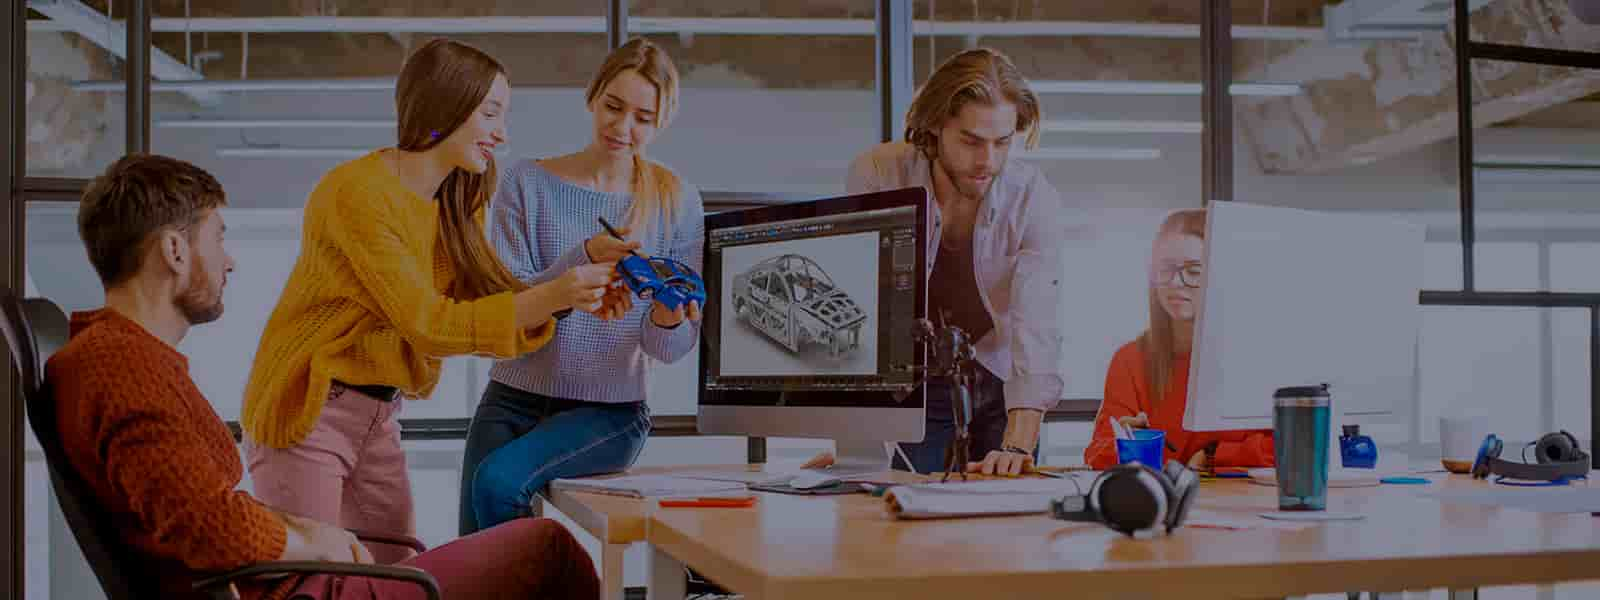
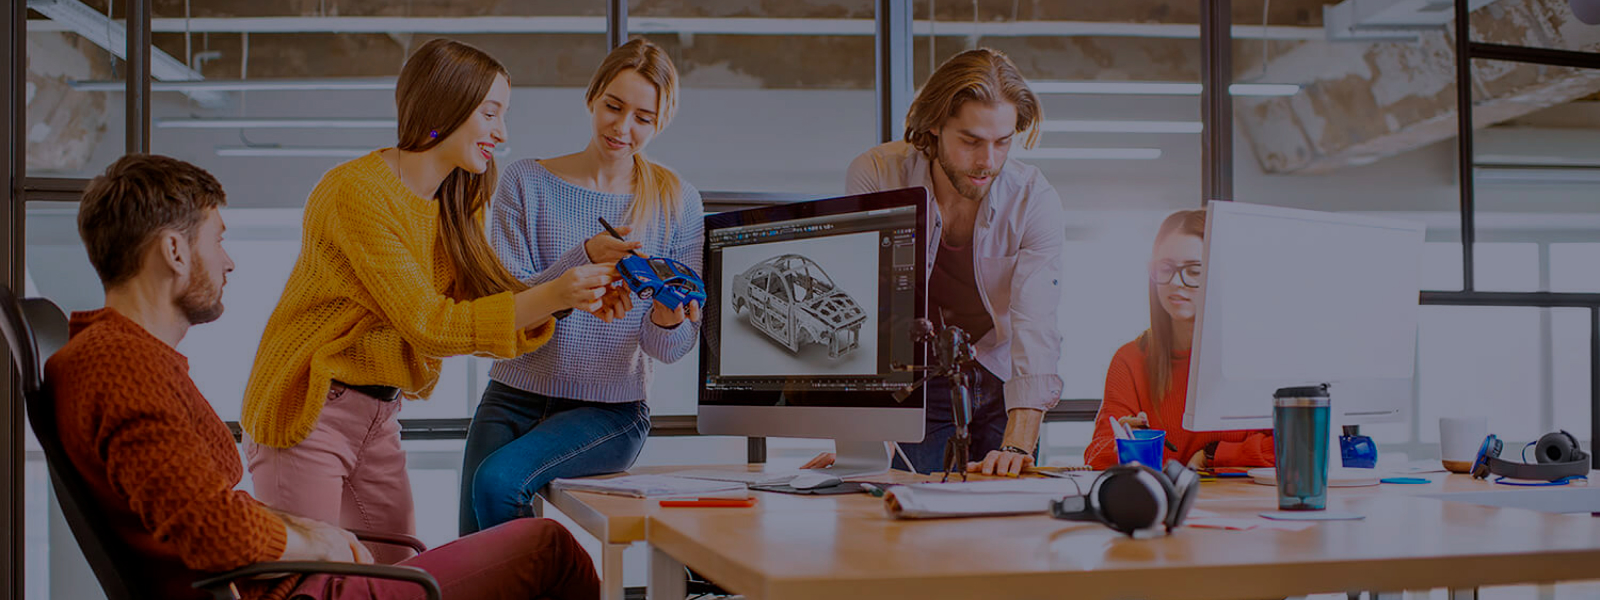
cos wiecej

diff --git a/css/main.min.css b/css/main.min.css
@@ -1,1 +1,1 @@
-.backdrop{position:fixed;left:0px;top:0px;z-index:3;width:100%;height:100%;background-color:rgba(0,0,0,.2);transition:transform 500ms linear,visibility 500ms linear,opacity 500ms linear}.is-hidden{transform:scaleY(0);visibility:hidden;opacity:0;pointer-events:none}button:hover,button:active,button:focus{color:var(--second-color, white);background-color:#2196f3}.buttons{display:flex;justify-content:space-around}.button__list{list-style-type:none;display:flex;gap:8px;padding-top:94px}.button--portfolio{padding:6px 22px;border-radius:4px;line-height:1.625;color:var(--brand-color, black);border:#f5f4fa;font-weight:500;font-size:16px;transition:color 250ms cubic-bezier(0.4, 0, 0.2, 1)}.button--portfolio:hover{box-shadow:0px 3px 1px rgba(0,0,0,.1),0px 1px 2px rgba(0,0,0,.08),0px 2px 2px rgba(0,0,0,.12);cursor:pointer}.button--text{font-weight:500;font-size:16px}.header{display:flex;margin-left:15px;margin-right:15px}.header__border{border:1px solid #eee;margin:0}.page-header{display:flex;justify-content:space-between;align-items:center}.logo{text-decoration:none;font-family:"Raleway",sans-serif;line-height:1.2;color:var(--brand-color, black);font-weight:700;font-size:26px;padding-top:24px;padding-bottom:25px}.logo--highlight{color:#2196f3}.logo--second-color{color:var(--second-color, white)}.nav{display:inline-flex;gap:46px;margin-left:93px;margin-right:345px}.nav__list{list-style-type:none;display:flex;gap:46px;padding-top:32px}.nav__item{font-family:"Roboto";font-style:normal;font-weight:500;font-size:14px;color:#212121;text-decoration:none;transition:color 250ms cubic-bezier(0.4, 0, 0.2, 1)}.nav__item--active::after{content:"";display:block;border:2px solid #2196f3;margin-top:28px;border-radius:2px}.nav__item:hover,.nav__item:focus{color:#2196f3;text-decoration:none}.nav__item:hover,.nav__item:focus,.nav__item:active{color:#2196f3}.contact{display:inline-flex;flex-wrap:nowrap;align-items:center}.contact__list{list-style-type:none;display:flex;padding-left:0px;gap:30px}.contact__icon{display:flex;justify-content:center;align-items:center;padding-right:10px;fill:#757575}.contact__icon:hover{fill:#2196f3}.contact__item{text-decoration:none;color:#757575;display:flex;line-height:1.142em;letter-spacing:.02em;font-weight:500;font-size:14px;transition:color 250ms cubic-bezier(0.4, 0, 0.2, 1)}.contact__item:hover,.contact__item:active,.contact__item:focus{color:#2196f3}.contact__item:hover .contact__item-number{padding-left:50px}.contact__item:hover .contact__icon{fill:#2196f3}.modal{position:absolute;top:50%;left:50%;transform:translate(-50%, -50%);width:528px;height:581px;background-color:#fff;box-shadow:0px 1px 3px rgba(0,0,0,.12),0px 1px 1px rgba(0,0,0,.14),0px 2px 1px rgba(0,0,0,.2);border-radius:4px}.modal--close{position:absolute;top:8px;right:8px;width:30px;height:30px;background-color:#fff;border:1px solid rgba(0,0,0,.1);border-radius:100%;cursor:pointer;transition:fill 250ms cubic-bezier(0.4, 0, 0.2, 1) 0ms}.modal__window{position:absolute;display:flex;flex-direction:column;margin:0;padding:0;left:40px;top:40px}#modal--form{font-weight:700;font-size:20px;line-height:1.15;text-align:center;letter-spacing:.03em;color:#212121;margin-bottom:12px;padding-left:40px;padding-right:40px}.modal__label{display:flex;flex-direction:column;margin-bottom:10px;gap:4px}.modal__label>textarea{width:448px;height:120px;border:1px solid rgba(33,33,33,.2);border-radius:4px;margin-top:4px;padding-left:16px;padding-top:12px;outline-color:#2196f3;transition:outline-color 250ms cubic-bezier(0.4, 0, 0.2, 1) 0ms}.modal__title{font-size:12px;line-height:1.2;letter-spacing:.01em;color:#757575}.modal__button--submit{width:200px;height:50px;background:#2196f3;box-shadow:0px 4px 4px rgba(0,0,0,.15);border-radius:4px;border:none;margin-left:124px;margin-top:30px;font-weight:700;font-size:16px;line-height:1.9;letter-spacing:.06em;color:#fff;margin-bottom:40px;cursor:pointer}.modal__input{position:relative;transition:outline-color 250ms cubic-bezier(0.4, 0, 0.2, 1) 0ms}.modal__input-icon{top:14px;left:15px;transition:fill 250ms cubic-bezier(0.4, 0, 0.2, 1) 0ms}.modal__input>input{width:448px;height:40px;border:1px solid rgba(33,33,33,.2);border-radius:4px;padding-left:40px}.modal__input>svg{position:absolute}.modal__input input:focus{outline-color:#2196f3}.modal__input input:focus+svg{fill:#2196f3}.textarea-resize{resize:none}.checkbox{display:block;position:relative;cursor:pointer}.checkbox input{display:none;opacity:0;cursor:pointer;height:0;width:0}.checkbox--regulations{color:#2196f3;text-decoration:underline;cursor:pointer}.checkbox__input:checked+.checkmark{border:none}.checkbox__input:checked+.checkmark svg{visibility:visible}.checkbox__text{font-family:"Roboto";font-size:14px;line-height:1.71;color:#757575;padding-left:39px}.checkmark{height:15px;width:16px;background-color:var(--white-color);border:2px solid #000;position:absolute;top:3px;left:15px;cursor:pointer;border-radius:2px}.checkmark__icon{height:15px;width:16px;visibility:hidden;transition:outline-color 250ms cubic-bezier(0.4, 0, 0.2, 1) 0ms}.check-icon{height:15px;width:16px;visibility:hidden}.footer{background-color:#2f303a}.page-footer{padding-top:60px}.page-footer__description{display:flex;gap:70px}.page-footer__description--section{font-size:14px;font-weight:700;color:#fff}.address{color:var(--second-color, white);line-height:1.71;font-style:normal;font-size:14px}.address--color{font-style:normal;font-size:14px;font-family:"Roboto";font-weight:400;padding-top:20px}.footer-contact__list{list-style-type:none;line-height:1.71}.footer-contact__item--mail{padding-top:9px}.footer-contact__item--number{padding-top:9px;padding-bottom:60px}.footer-contact__link{text-decoration:none;color:#757575;font-weight:500;font-size:14px;transition:color 250ms cubic-bezier(0.4, 0, 0.2, 1)}.footer-contact__link:hover,.footer-contact__link:active,.footer-contact__link:focus{color:#2196f3}.social__link{background-color:rgba(255,255,255,.1);width:44px;height:44px;border-radius:50%;align-items:center;justify-content:center;display:flex;margin-top:20px;transition:fill 250ms cubic-bezier(0.4, 0, 0.2, 1) 0ms,background-color 250ms cubic-bezier(0.4, 0, 0.2, 1) 0ms}.social__link:hover{background-color:#2196f3}.social__link:hover svg{fill:#fff}.newsletter__text{font-size:14px;font-weight:700;color:#fff;margin-bottom:20px}.newsletter__form{display:flex;align-items:flex-end;gap:12px;flex-direction:row}.newsletter__label{display:flex;flex-direction:column}.newsletter__input{width:358px;height:50px;border:1px solid rgba(255,255,255,.3);filter:drop-shadow(0px 4px 4px rgba(0, 0, 0, 0.15));border-radius:4px;background-color:inherit;font-family:"Roboto";font-size:16px;line-height:1.25px;letter-spacing:.03em;color:#fff;padding-left:16px;outline-color:#2196f3;transition:outline-color 250ms cubic-bezier(0.4, 0, 0.2, 1) 0ms}.newsletter__submit{width:200px;height:50px;background-color:#2196f3;color:#fff;border-radius:4px;font-weight:700;font-size:16px;line-height:1.9;display:flex;align-items:center;gap:24px;text-align:center;letter-spacing:.06em;border:none;justify-content:center;transition:box-shadow 250ms cubic-bezier(0.4, 0, 0.2, 1) 0ms}.newsletter__submit:hover{cursor:pointer}body{font-family:"Roboto","Raleway",sans-serif;color:var(--brand-color, black);background:var(--second-color, white);margin:auto}*{box-sizing:border-box;margin:0;padding:0}.container{width:100%;margin:0 auto}@media screen and (min-width: 480px){.container{max-width:480px;padding:0 15px}}@media screen and (min-width: 768px){.container{max-width:768px;padding:0 15px}}@media screen and (min-width: 1200px){.container{max-width:1200px}}@media(min-device-pixel-ratio: 2),(-webkit-min-device-pixel-ratio: 2),(min-resolution: 192dpi),(min-resolution: 2dppx){.main__title{background-image:url(../images/bg-img-480px@2x.jpg)}}@media screen and (min-width: 320px)and (max-width: 767px){.main__title{background-color:#2f303a;background-image:linear-gradient(to bottom, rgba(47, 48, 58, 0.4), rgba(47, 48, 58, 0.4)),url(../images/bg-img-480px.jpg);background-size:480px 400px;background-position:center;background-repeat:no-repeat}}.content{text-align:center}.content__text{font-style:normal;font-weight:900;font-size:26px;line-height:1.61;letter-spacing:.06em;color:#fff;padding-top:118px;padding-bottom:30px}.content__button{background-color:#2196f3;cursor:pointer;line-height:1.875;color:#212121;border:none #f5f4fa;font-weight:700;font-size:16px;font-family:"Roboto";text-align:center;border-radius:4px;padding:10px 41px 10px 42px;margin-bottom:118px}.content__button--style{color:#fff}.content__button--style:hover{cursor:pointer}.main__cards{padding-top:94px}.marks{list-style-type:none;display:flex;gap:30px;padding-left:15px;padding-right:15px}.marks__image{display:flex;background-color:#f5f4fa;margin-bottom:30px;padding-top:25px;padding-bottom:25px;padding-left:102.34px;padding-right:102.34px;border-radius:4px}.marks__title{line-height:1.36;font-weight:700;color:var(--brand-color, black);font-size:14px}.marks__text{line-height:1.71;padding-top:10px;color:#757575;font-size:14px}.gallery__title{font-size:36px;font-weight:700;font-family:"Roboto";text-align:center;padding-bottom:50px;padding-top:94px;line-height:1.17}.gallery__list{list-style-type:none;display:flex;justify-content:center;gap:30px}.gallery__thumb{position:relative;margin:0}.gallery__label{position:absolute;display:flex;width:370px;height:70px;top:224px;align-items:center;justify-content:center;font-weight:700;font-size:14px;line-height:1.14;text-transform:uppercase;color:#fff;background:rgba(47,48,58,.8)}.team{list-style-type:none;display:flex;justify-content:center;padding-top:50px;padding-bottom:94px;padding-left:0;justify-content:space-between}.team__background{background-color:#f5f4fa;margin-top:94px}.team__title{font-size:36px;font-weight:700;text-align:center;font-family:"Roboto";padding-top:94px;line-height:1.17}.team__figure{margin:0;padding:0;background-color:#fff;box-shadow:0px 1px 3px rgba(0,0,0,.12),0px 1px 1px rgba(0,0,0,.14),0px 2px 1px rgba(0,0,0,.2);border-radius:0px 0px 4px 4px}.team__figcaption{padding-bottom:16px;line-height:1.17}.team__name{font-size:16px;font-weight:500;padding-top:30px;text-align:center}.team__subtitle{font-size:16px;text-align:center;padding-top:10px;color:#757575}.social__list{display:flex;gap:10px;justify-content:center;align-items:center;list-style-type:none}.social__item{padding-bottom:30px}.social__content{display:flex;width:44px;height:44px;border-radius:50%;align-items:center;justify-content:center;transition:fill 250ms cubic-bezier(0.4, 0, 0.2, 1) 0ms,background-color 250ms cubic-bezier(0.4, 0, 0.2, 1) 0ms;background-color:rgba(255,255,255,.1)}.social__content:hover{background-color:#2196f3;cursor:pointer}.social__content:hover svg{fill:#fff}.social__icon--team{fill:#afb1b8;height:20px;width:20px}.social__icon--team:hover{fill:#fff}.social__icon{fill:#fff;height:20px;width:20px}.clients__title{font-size:36px;font-weight:700;text-align:center;font-family:"Roboto";padding-top:94px;line-height:1.17;padding-bottom:50px}.clients__list{display:flex;gap:30px;justify-content:center;align-items:center;list-style-type:none}.clients__box{height:92px;width:170px;border:1px solid #afb1b8;border-radius:4px;display:flex;align-items:center;justify-content:center;margin-bottom:94px;transition:fill 250ms cubic-bezier(0.4, 0, 0.2, 1) 0ms,border 250ms cubic-bezier(0.4, 0, 0.2, 1) 0ms}.clients__box:hover svg{fill:#2196f3}.clients__box:hover{border:1px solid #2196f3}.clients__icons{fill:#afb1b8;width:106px;height:60px;transition:fill 250ms cubic-bezier(0.4, 0, 0.2, 1) 0ms}.grid__list{list-style-type:none;display:flex;margin-top:84px;flex-wrap:wrap;padding-left:0;margin-bottom:94px;justify-content:space-around;row-gap:30px}.grid__item{background:#fff}.grid__item:hover .text__box{transform:translateX(0);background-color:var(--first-color)}.grid__overlay{position:relative;overflow:hidden;margin:0}.grid__overlay:hover{cursor:pointer;box-shadow:1px 4px 6px rgba(0,0,0,.16),0px 4px 4px rgba(0,0,0,.06),0px 1px 1px rgba(0,0,0,.12)}.grid__overlay--second{position:relative;overflow:hidden}.grid__image{display:block}.text__box{position:absolute;bottom:0;transform:translatey(100%);transition:ease-in 250ms}.text__box--description{background-color:#2196f3;font-family:"Roboto";font-style:normal;font-weight:400;font-size:18px;line-height:1.555;letter-spacing:.03em;color:#fff;padding:49px 45px 49px 24px;margin:0%}.grid__figcaption{padding:20px 24px;border-bottom:1px solid #eee;border-left:1px solid #eee;border-right:1px solid #eee}.grid__name{padding-bottom:4px;font-weight:700;font-size:18px;line-height:2}.grid__subtitle{color:#757575;line-height:1.875;font-size:16px}/*# sourceMappingURL=main.min.css.map */
+.backdrop{position:fixed;left:0px;top:0px;z-index:3;width:100%;height:100%;background-color:rgba(0,0,0,.2);transition:transform 500ms linear,visibility 500ms linear,opacity 500ms linear}.is-hidden{transform:scaleY(0);visibility:hidden;opacity:0;pointer-events:none}button:hover,button:active,button:focus{color:var(--second-color, white);background-color:#2196f3}.buttons{display:flex;justify-content:space-around}.button__list{list-style-type:none;display:flex;gap:8px;padding-top:94px}.button--portfolio{padding:6px 22px;border-radius:4px;line-height:1.625;color:var(--brand-color, black);border:#f5f4fa;font-weight:500;font-size:16px;transition:color 250ms cubic-bezier(0.4, 0, 0.2, 1)}.button--portfolio:hover{box-shadow:0px 3px 1px rgba(0,0,0,.1),0px 1px 2px rgba(0,0,0,.08),0px 2px 2px rgba(0,0,0,.12);cursor:pointer}.button--text{font-weight:500;font-size:16px}.header{display:flex;margin-left:15px;margin-right:15px}.header__border{border:1px solid #eee;margin:0}.page-header{display:flex;justify-content:space-between;align-items:center}.logo{text-decoration:none;font-family:"Raleway",sans-serif;line-height:1.2;color:var(--brand-color, black);font-weight:700;font-size:26px;padding-top:24px;padding-bottom:25px}.logo--highlight{color:#2196f3}.logo--second-color{color:var(--second-color, white)}.nav{display:inline-flex;gap:46px;margin-left:93px;margin-right:345px}.nav__list{list-style-type:none;display:flex;gap:46px;padding-top:32px}.nav__item{font-family:"Roboto";font-style:normal;font-weight:500;font-size:14px;color:#212121;text-decoration:none;transition:color 250ms cubic-bezier(0.4, 0, 0.2, 1)}.nav__item--active::after{content:"";display:block;border:2px solid #2196f3;margin-top:28px;border-radius:2px}.nav__item:hover,.nav__item:focus{color:#2196f3;text-decoration:none}.nav__item:hover,.nav__item:focus,.nav__item:active{color:#2196f3}.contact{display:inline-flex;flex-wrap:nowrap;align-items:center}.contact__list{list-style-type:none;display:flex;padding-left:0px;gap:30px}.contact__icon{display:flex;justify-content:center;align-items:center;padding-right:10px;fill:#757575}.contact__icon:hover{fill:#2196f3}.contact__item{text-decoration:none;color:#757575;display:flex;line-height:1.142em;letter-spacing:.02em;font-weight:500;font-size:14px;transition:color 250ms cubic-bezier(0.4, 0, 0.2, 1)}.contact__item:hover,.contact__item:active,.contact__item:focus{color:#2196f3}.contact__item:hover .contact__item-number{padding-left:50px}.contact__item:hover .contact__icon{fill:#2196f3}.modal{position:absolute;top:50%;left:50%;transform:translate(-50%, -50%);width:528px;height:581px;background-color:#fff;box-shadow:0px 1px 3px rgba(0,0,0,.12),0px 1px 1px rgba(0,0,0,.14),0px 2px 1px rgba(0,0,0,.2);border-radius:4px}.modal--close{position:absolute;top:8px;right:8px;width:30px;height:30px;background-color:#fff;border:1px solid rgba(0,0,0,.1);border-radius:100%;cursor:pointer;transition:fill 250ms cubic-bezier(0.4, 0, 0.2, 1) 0ms}.modal__window{position:absolute;display:flex;flex-direction:column;margin:0;padding:0;left:40px;top:40px}#modal--form{font-weight:700;font-size:20px;line-height:1.15;text-align:center;letter-spacing:.03em;color:#212121;margin-bottom:12px;padding-left:40px;padding-right:40px}.modal__label{display:flex;flex-direction:column;margin-bottom:10px;gap:4px}.modal__label>textarea{width:448px;height:120px;border:1px solid rgba(33,33,33,.2);border-radius:4px;margin-top:4px;padding-left:16px;padding-top:12px;outline-color:#2196f3;transition:outline-color 250ms cubic-bezier(0.4, 0, 0.2, 1) 0ms}.modal__title{font-size:12px;line-height:1.2;letter-spacing:.01em;color:#757575}.modal__button--submit{width:200px;height:50px;background:#2196f3;box-shadow:0px 4px 4px rgba(0,0,0,.15);border-radius:4px;border:none;margin-left:124px;margin-top:30px;font-weight:700;font-size:16px;line-height:1.9;letter-spacing:.06em;color:#fff;margin-bottom:40px;cursor:pointer}.modal__input{position:relative;transition:outline-color 250ms cubic-bezier(0.4, 0, 0.2, 1) 0ms}.modal__input-icon{top:14px;left:15px;transition:fill 250ms cubic-bezier(0.4, 0, 0.2, 1) 0ms}.modal__input>input{width:448px;height:40px;border:1px solid rgba(33,33,33,.2);border-radius:4px;padding-left:40px}.modal__input>svg{position:absolute}.modal__input input:focus{outline-color:#2196f3}.modal__input input:focus+svg{fill:#2196f3}.textarea-resize{resize:none}.checkbox{display:block;position:relative;cursor:pointer}.checkbox input{display:none;opacity:0;cursor:pointer;height:0;width:0}.checkbox--regulations{color:#2196f3;text-decoration:underline;cursor:pointer}.checkbox__input:checked+.checkmark{border:none}.checkbox__input:checked+.checkmark svg{visibility:visible}.checkbox__text{font-family:"Roboto";font-size:14px;line-height:1.71;color:#757575;padding-left:39px}.checkmark{height:15px;width:16px;background-color:var(--white-color);border:2px solid #000;position:absolute;top:3px;left:15px;cursor:pointer;border-radius:2px}.checkmark__icon{height:15px;width:16px;visibility:hidden;transition:outline-color 250ms cubic-bezier(0.4, 0, 0.2, 1) 0ms}.check-icon{height:15px;width:16px;visibility:hidden}.footer{background-color:#2f303a}.page-footer{padding-top:60px}.page-footer__description{display:flex;gap:70px}.page-footer__description--section{font-size:14px;font-weight:700;color:#fff}.address{color:var(--second-color, white);line-height:1.71;font-style:normal;font-size:14px}.address--color{font-style:normal;font-size:14px;font-family:"Roboto";font-weight:400;padding-top:20px}.footer-contact__list{list-style-type:none;line-height:1.71}.footer-contact__item--mail{padding-top:9px}.footer-contact__item--number{padding-top:9px;padding-bottom:60px}.footer-contact__link{text-decoration:none;color:#757575;font-weight:500;font-size:14px;transition:color 250ms cubic-bezier(0.4, 0, 0.2, 1)}.footer-contact__link:hover,.footer-contact__link:active,.footer-contact__link:focus{color:#2196f3}.social__link{background-color:rgba(255,255,255,.1);width:44px;height:44px;border-radius:50%;align-items:center;justify-content:center;display:flex;margin-top:20px;transition:fill 250ms cubic-bezier(0.4, 0, 0.2, 1) 0ms,background-color 250ms cubic-bezier(0.4, 0, 0.2, 1) 0ms}.social__link:hover{background-color:#2196f3}.social__link:hover svg{fill:#fff}.newsletter__text{font-size:14px;font-weight:700;color:#fff;margin-bottom:20px}.newsletter__form{display:flex;align-items:flex-end;gap:12px;flex-direction:row}.newsletter__label{display:flex;flex-direction:column}.newsletter__input{width:358px;height:50px;border:1px solid rgba(255,255,255,.3);filter:drop-shadow(0px 4px 4px rgba(0, 0, 0, 0.15));border-radius:4px;background-color:inherit;font-family:"Roboto";font-size:16px;line-height:1.25px;letter-spacing:.03em;color:#fff;padding-left:16px;outline-color:#2196f3;transition:outline-color 250ms cubic-bezier(0.4, 0, 0.2, 1) 0ms}.newsletter__submit{width:200px;height:50px;background-color:#2196f3;color:#fff;border-radius:4px;font-weight:700;font-size:16px;line-height:1.9;display:flex;align-items:center;gap:24px;text-align:center;letter-spacing:.06em;border:none;justify-content:center;transition:box-shadow 250ms cubic-bezier(0.4, 0, 0.2, 1) 0ms}.newsletter__submit:hover{cursor:pointer}body{font-family:"Roboto","Raleway",sans-serif;color:var(--brand-color, black);background:var(--second-color, white);margin:auto}*{box-sizing:border-box;margin:0;padding:0}.container{width:100%;margin:0 auto}@media screen and (min-width: 480px){.container{max-width:480px;padding:0 15px}}@media screen and (min-width: 768px){.container{max-width:768px;padding:0 15px}}@media screen and (min-width: 1200px){.container{max-width:1200px;padding:0 215px}}@media screen and (min-width: 320px)and (max-width: 768px){.main__title{background-color:#2f303a;background-image:linear-gradient(to bottom, rgba(47, 48, 58, 0.4), rgba(47, 48, 58, 0.4)),url(../images/bg-img-480px.jpg);background-size:480px 400px;background-position:center;background-repeat:no-repeat}}.content{text-align:center}.content__text{font-style:normal;font-weight:900;font-size:26px;line-height:1.61;letter-spacing:.06em;color:#fff;padding-top:118px;padding-bottom:30px}.content__button{background-color:#2196f3;cursor:pointer;line-height:1.875;color:#212121;border:none #f5f4fa;font-weight:700;font-size:16px;font-family:"Roboto";text-align:center;border-radius:4px;padding:10px 41px 10px 42px;margin-bottom:118px}.content__button--style{color:#fff}.content__button--style:hover{cursor:pointer}@media screen and (min-width: 768px)and (max-width: 1200px){.main__title{background-color:#2f303a;background-image:linear-gradient(to bottom, rgba(47, 48, 58, 0.4), rgba(47, 48, 58, 0.4)),url(../images/bg-img-768px.jpg);background-size:768px 400px;background-position:center;background-repeat:no-repeat}}@media screen and (min-width: 1200px){.main__title{background-color:#2f303a;background-image:linear-gradient(to bottom, rgba(47, 48, 58, 0.4), rgba(47, 48, 58, 0.4)),url(../images/bg-img-1200px.jpg);background-size:1200px 600px;background-position:center;background-repeat:no-repeat}.content__text{font-weight:900;font-size:44px;line-height:1.36;letter-spacing:.06em;padding-top:200px}.content__button{margin-bottom:200px}}.main__cards{padding-top:94px}.marks{list-style-type:none;display:flex;gap:30px;padding-left:15px;padding-right:15px}.marks__image{display:flex;background-color:#f5f4fa;margin-bottom:30px;padding-top:25px;padding-bottom:25px;padding-left:102.34px;padding-right:102.34px;border-radius:4px}.marks__title{line-height:1.36;font-weight:700;color:var(--brand-color, black);font-size:14px}.marks__text{line-height:1.71;padding-top:10px;color:#757575;font-size:14px}.gallery__title{font-size:36px;font-weight:700;font-family:"Roboto";text-align:center;padding-bottom:50px;padding-top:94px;line-height:1.17}.gallery__list{list-style-type:none;display:flex;justify-content:center;gap:30px}.gallery__thumb{position:relative;margin:0}.gallery__label{position:absolute;display:flex;width:370px;height:70px;top:224px;align-items:center;justify-content:center;font-weight:700;font-size:14px;line-height:1.14;text-transform:uppercase;color:#fff;background:rgba(47,48,58,.8)}.team{list-style-type:none;display:flex;justify-content:center;padding-top:50px;padding-bottom:94px;padding-left:0;justify-content:space-between}.team__background{background-color:#f5f4fa;margin-top:94px}.team__title{font-size:36px;font-weight:700;text-align:center;font-family:"Roboto";padding-top:94px;line-height:1.17}.team__figure{margin:0;padding:0;background-color:#fff;box-shadow:0px 1px 3px rgba(0,0,0,.12),0px 1px 1px rgba(0,0,0,.14),0px 2px 1px rgba(0,0,0,.2);border-radius:0px 0px 4px 4px}.team__figcaption{padding-bottom:16px;line-height:1.17}.team__name{font-size:16px;font-weight:500;padding-top:30px;text-align:center}.team__subtitle{font-size:16px;text-align:center;padding-top:10px;color:#757575}.social__list{display:flex;gap:10px;justify-content:center;align-items:center;list-style-type:none}.social__item{padding-bottom:30px}.social__content{display:flex;width:44px;height:44px;border-radius:50%;align-items:center;justify-content:center;transition:fill 250ms cubic-bezier(0.4, 0, 0.2, 1) 0ms,background-color 250ms cubic-bezier(0.4, 0, 0.2, 1) 0ms;background-color:rgba(255,255,255,.1)}.social__content:hover{background-color:#2196f3;cursor:pointer}.social__content:hover svg{fill:#fff}.social__icon--team{fill:#afb1b8;height:20px;width:20px}.social__icon--team:hover{fill:#fff}.social__icon{fill:#fff;height:20px;width:20px}.clients__title{font-size:36px;font-weight:700;text-align:center;font-family:"Roboto";padding-top:94px;line-height:1.17;padding-bottom:50px}.clients__list{display:flex;gap:30px;justify-content:center;align-items:center;list-style-type:none}.clients__box{height:92px;width:170px;border:1px solid #afb1b8;border-radius:4px;display:flex;align-items:center;justify-content:center;margin-bottom:94px;transition:fill 250ms cubic-bezier(0.4, 0, 0.2, 1) 0ms,border 250ms cubic-bezier(0.4, 0, 0.2, 1) 0ms}.clients__box:hover svg{fill:#2196f3}.clients__box:hover{border:1px solid #2196f3}.clients__icons{fill:#afb1b8;width:106px;height:60px;transition:fill 250ms cubic-bezier(0.4, 0, 0.2, 1) 0ms}.grid__list{list-style-type:none;display:flex;margin-top:84px;flex-wrap:wrap;padding-left:0;margin-bottom:94px;justify-content:space-around;row-gap:30px}.grid__item{background:#fff}.grid__item:hover .text__box{transform:translateX(0);background-color:var(--first-color)}.grid__overlay{position:relative;overflow:hidden;margin:0}.grid__overlay:hover{cursor:pointer;box-shadow:1px 4px 6px rgba(0,0,0,.16),0px 4px 4px rgba(0,0,0,.06),0px 1px 1px rgba(0,0,0,.12)}.grid__overlay--second{position:relative;overflow:hidden}.grid__image{display:block}.text__box{position:absolute;bottom:0;transform:translatey(100%);transition:ease-in 250ms}.text__box--description{background-color:#2196f3;font-family:"Roboto";font-style:normal;font-weight:400;font-size:18px;line-height:1.555;letter-spacing:.03em;color:#fff;padding:49px 45px 49px 24px;margin:0%}.grid__figcaption{padding:20px 24px;border-bottom:1px solid #eee;border-left:1px solid #eee;border-right:1px solid #eee}.grid__name{padding-bottom:4px;font-weight:700;font-size:18px;line-height:2}.grid__subtitle{color:#757575;line-height:1.875;font-size:16px}/*# sourceMappingURL=main.min.css.map */

diff --git a/sass/components/_banner.scss b/sass/components/_banner.scss
@@ -1,12 +1,5 @@
-@media (min-device-pixel-ratio: 2),
-(min-resolution: 192dpi),
-(min-resolution: 2dppx) {
-  .main__title {
-    background-image: url(../images/bg-img-480px@2x.jpg);
-  }
-}
 
-@media screen and (min-width:320px) and (max-width:767px){
+@media screen and (min-width:320px) and (max-width: 768px) {
 .main__title {
   background-color: #2f303a;
       background-image: linear-gradient(
@@ -58,6 +51,47 @@ text-align: center;
     cursor:pointer;
   }
 }
+
+
+@media screen and (min-width: 768px) and (max-width:1200px) {
+  .main__title {
+    background-color: #2f303a;
+      background-image: linear-gradient(to bottom,
+            rgba(47, 48, 58, 0.4),
+            rgba(47, 48, 58, 0.4)),
+          url(../images/bg-img-768px.jpg);
+      background-size: 768px 400px;
+      background-position: center;
+      background-repeat: no-repeat;
+  }
+}
+
+@media screen and (min-width:1200px) {
+  .main__title {
+      background-color: #2f303a;
+      background-image: linear-gradient(to bottom,
+          rgba(47, 48, 58, 0.4),
+          rgba(47, 48, 58, 0.4)),
+        url(../images/bg-img-1200px.jpg);
+      background-size: 1200px 600px;
+      background-position: center;
+      background-repeat: no-repeat;
+}
+
+.content__text {
+font-weight: 900;
+  font-size: 44px;
+  line-height: 1.36;
+  letter-spacing: 0.06em;
+  padding-top: 200px;
+}
+
+.content__button {
+  margin-bottom: 200px;
+}
+}
+
+
 
 
 

diff --git a/sass/components/_container.scss b/sass/components/_container.scss
@@ -25,5 +25,6 @@
 @media screen and (min-width: 1200px) {
   .container {
   max-width: 1200px;
+  padding: 0 215px
   }
 }
